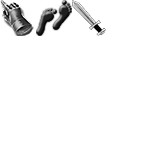
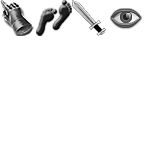
Added chest prefab and examine mouse cursor.

Changed region(s): [[0.75, 0.0556, 1.0, 0.2222]]

diff --git a/ScarletGamma/src/core/World.cpp b/ScarletGamma/src/core/World.cpp
@@ -659,6 +659,13 @@ namespace Core {
         object->Add( PROPERTY::INITIATIVE_MOD ).SetValue( "'" + STR_PROP_DEXTERITY_MOD + "'" );
         object->Add( PROPERTY::HEALTH ).SetValue( "2W8 + 2" );
 
+        // Treasure chest
+        object = GetObject( NewObjectTemplate( "media/chest.png" ) );
+        object->Add( PROPERTY::NAME ).SetValue( STR_CHEST_NAME );
+        object->Add( PROPERTY::COLOR ).SetValue( "684f2bff");
+        object->Add( PROPERTY::OBSTACLE );
+
+
 		object = GetObject( NewObjectTemplate( "media/bar_hor.png" ) );
 		object->Add( PROPERTY::NAME ).SetValue( STR_WALLH );
 		object->Add( PROPERTY::OBSTACLE );

diff --git a/ScarletGamma/src/Constants.hpp b/ScarletGamma/src/Constants.hpp
@@ -181,6 +181,7 @@ static const std::string STR_HOBGOBLIN_NAME = std::string("Hobgoblin");
 static const std::string STR_GNOLL_NAME = std::string("Gnoll");
 static const std::string STR_KOBOLD_NAME = std::string("Kobold");
 static const std::string STR_LIZARDFOLK_NAME = std::string("Echsenfolk");
+static const std::string STR_CHEST_NAME = std::string("Truhe");
 static const std::string STR_WALLH = std::string("Wand_H");
 static const std::string STR_WALLV = std::string("Wand_V");
 static const std::string STR_WALLC = std::string("Wand_K");

diff --git a/ScarletGamma/src/actions/Examine.cpp b/ScarletGamma/src/actions/Examine.cpp
@@ -8,7 +8,7 @@
 namespace Actions {
 
 
-Examine::Examine() : Action(STR_ACT_EXAMINE, Duration::STANDARD_ACTION, 1)
+Examine::Examine() : Action(STR_ACT_EXAMINE, Duration::STANDARD_ACTION, 1, Game::MC_EXAMINE)
 {
 	m_sourceRequirements.push_back( std::pair<std::string, bool>(STR_PROP_PLAYER, true) );
 }

diff --git a/ScarletGamma/src/states/CommonState.cpp b/ScarletGamma/src/states/CommonState.cpp
@@ -360,8 +360,8 @@ namespace States {
 			return 8;
 
 		// Search the topmost visible layer
-		for( int i = 9; i >= 0; --i )
-			if( IsLayerVisible(i) ) return i + 1;
+		for( int i = 10; i >= 1; --i )
+			if( IsLayerVisible(i) ) return i;
 
 		return 10;
 	}

diff --git a/ScarletGamma/src/Game.hpp b/ScarletGamma/src/Game.hpp
@@ -20,7 +20,8 @@ public:
     {
         MC_DEFAULT = 0,
         MC_WALK,
-        MC_ATTACK
+        MC_ATTACK,
+        MC_EXAMINE
     };
 
 	/// \brief Default constructor that tames wild pointers
